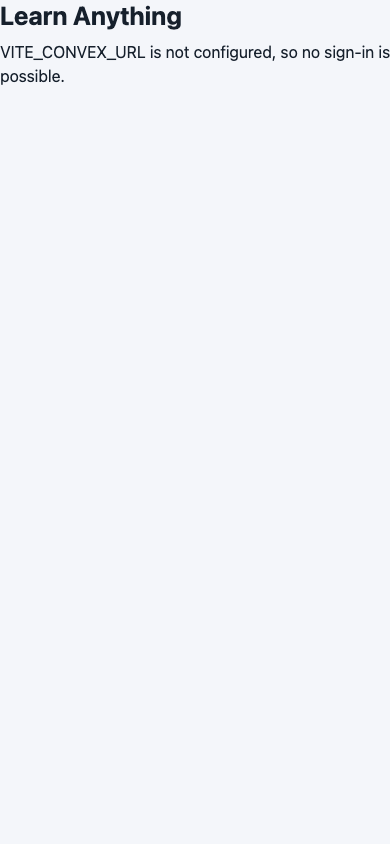
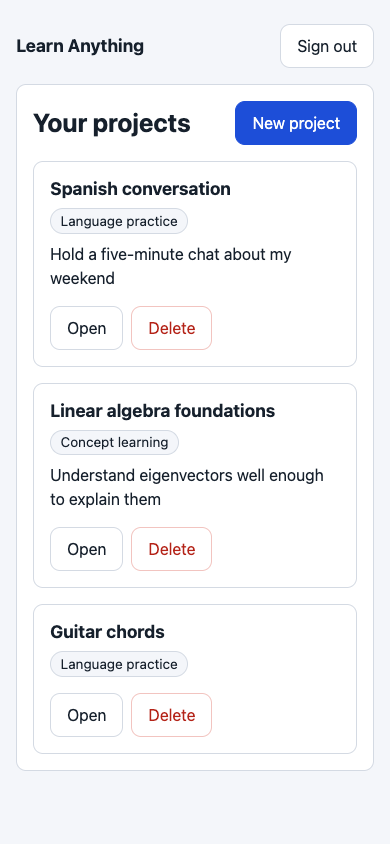
docs: fix S26 evidence after review - real dashboard screenshots, #38 row, row-to-test mapping
Regenerates journey-dashboard-{desktop,mobile}.png through
#/preview/dashboard with VITE_CONVEX_URL set (the old capture showed the
unconfigured-VITE_CONVEX_URL page), documents what each artifact actually
shows, records #38's merged offline portion with the verified preview
header evidence, and explains the 56 rows -> 35 tests mapping.

diff --git a/docs/evidence/s26/README.md b/docs/evidence/s26/README.md
@@ -1,6 +1,6 @@
 # S26 — v0.1 end-to-end release acceptance report
 
-**Story:** S26 / issue #30 · **Branch:** `feat/issue-30-release-acceptance` · **Base:** `origin/main` at `a85d65b` (S05…S25 plus #41 auth hardening merged) · **Date:** 2026-10-03
+**Story:** S26 / issue #30 · **Branch:** `feat/issue-30-release-acceptance` · **Base:** `origin/main` at `33b6fbc` (S05…S25, #41 auth hardening and #72 offline Vercel hosting merged) · **Date:** 2026-10-03
 
 This report is the S26 acceptance evidence: the full learner journey, both tutor
 modes, the two-user privacy matrix, failure recovery without duplicate rows,
@@ -22,10 +22,10 @@ no production code changes.**
 | --- | --- | --- |
 | S05, S17, S19, S20, S21, S22, S23, S24, S25 (BACKLOG) | ✅ closed, merged | PRs #37, #66, #53, #55, #45, #52, #44, #69, #70 |
 | #41 — Convex Auth hardening (PM-added) | ✅ **SATISFIED** — PR #71 merged, `main` = `a85d65b`; this branch merged it before the runs below | Negative-token tests across 13 `ctx.auth` functions + 5 HTTP routes (`packages/api/tests/auth-negative-tokens.test.ts`), 8-entry callback/redirect allowlist with foreign-origin rejection (`packages/api/tests/auth-callback.test.ts`), agent handshake binding guard with no email-only/user-ID-only binding (`packages/agent/tests/sessionEndpoint.test.ts`), ADR evidence table (`docs/adr/0004-authentication-method.md`) — all green in the `pnpm test` output below |
-| #38 — Vercel deploy (PM-added) | ⛔ **partially blocked** — offline config/docs in flight (separate worktree); secrets workflow + production deploy + live sign-in smoke require **owner authority** (`Missing environment variable JWT_PRIVATE_KEY` in production QA) | Recorded as a remaining gate, not passed |
+| #38 — Vercel deploy (PM-added) | ✅ **offline portion MERGED** (PR #72, `main` = `33b6fbc`) with **VERIFIED** preview evidence | Preview deployment `dpl_27dT47KjRD5UWS7E2Ft4z7GDDH4g` is READY and serves all six headers — CSP, `Permissions-Policy: microphone=(self)`, `X-Content-Type-Options: nosniff`, `Referrer-Policy`, `X-Frame-Options: DENY`, HSTS `max-age=31536000` — as fetched through the owner's Vercel connection. Issue #38 **REMAINS OPEN** on owner-authority gates: JWT_PRIVATE_KEY/JWKS secrets workflow, production promotion, live sign-in + no-secret-in-bundle smoke |
 | #67, #68 (auth error copy, sign-in/onboarding screen) | ℹ out of S26 scope, listed as follow-ups (order-40/41, milestone v0.2) | issue tracker |
 
-## Commands and outputs (this branch, post-#41 merge)
+## Commands and outputs (this branch, refreshed from `main` at `33b6fbc`)
 
 ```text
 $ pnpm lint
@@ -103,10 +103,16 @@ provider counts `transcriptions=2, speech=2, chat=3` — no duplicates.
 
 Test: `packages/app/tests/e2e-privacy-matrix.test.tsx` — **35/35 PASS**.
 One shared deployment seeds A's world once (project + ingested document +
-completed grounded turn + agent connection token). Every row below is an
-individual named test; **actual = expected on every row**. "Denied" means the
-typed non-enumerating error (`NOT_FOUND`/`UNAUTHENTICATED`/`404`) with zero
-provider calls and zero rows written unless stated.
+completed grounded turn + agent connection token). The **56 rows below map to
+35 named tests**: C1–C28 are one `test.each` test each (28 tests), while the
+other 28 rows are grouped assertions inside 7 named tests — U1–U4 (`UI
+surface…`), V1–V4 (`vector surface…`), H1–H3 (`file surface…`), S1–S4
+(`speech-HTTP surface…`), A1–A5 (`agent surface…`), T1–T5 (`cache/telemetry
+surface…`) and AD1–AD3 (`audio surface…`). **actual = expected on every row.**
+"Denied" means the typed non-enumerating error
+(`NOT_FOUND`/`UNAUTHENTICATED`/`404`) with zero provider calls — asserted on
+every Convex row — and no `tutorTurns`/`messages`/`citations` row written,
+unless stated.
 
 ### Surface: UI
 
@@ -135,7 +141,7 @@ provider calls and zero rows written unless stated.
 | C12 | `tutor.getTurn` | NOT_FOUND | ✅ |
 | C13 | `tutor.latestTurn` | NOT_FOUND | ✅ |
 | C14 | `tutor.cancelTurn` | NOT_FOUND | ✅ |
-| C15 | `tutor.runTurn` (action) | NOT_FOUND, 0 provider calls, 0 rows | ✅ |
+| C15 | `tutor.runTurn` (action) | NOT_FOUND, 0 provider calls, 0 rows | ✅ asserted: provider counts and `tutorTurns`/`messages`/`citations` unchanged (holds for every C row) |
 | C16 | `ingestion.listIngestionJobs` | NOT_FOUND | ✅ |
 | C17 | `agentSessions.issueConnectionToken` | NOT_FOUND | ✅ |
 | C18 | `agentSessions.revokeConnectionToken` (A's token id) | NOT_FOUND | ✅ |
@@ -199,7 +205,7 @@ one's instance at the gate" → 403 `AGENT_SCOPE_MISMATCH`,
 | T1 | B's denied STT + transcript attempts | 0 telemetry rows for `learner-b` | ✅ 0 rows |
 | T2 | rows keyed to A's project | all `ownerId: learner-a` | ✅ |
 | T3 | redaction canary (`what is photosynthesis`, answer text) | absent from every telemetry row | ✅ |
-| T4 | rate-limit buckets | none for B, never A's bucket | ✅ |
+| T4 | rate-limit buckets | owner-scoped: no shared or foreign bucket, and A's bucket never spent by B | ✅ every row keyed to `learner-a`/`learner-b` and carries no `projectId`; A's rows byte-identical before/after B's denials (B's own denials are charged only to B's bucket) |
 | T5 | public read surface for telemetry | none (source scan: module exports no public `query`/`mutation`/`action`) | ✅ |
 
 Cross-user rate-limit bucket isolation and the "denied even with a fresh
@@ -259,22 +265,35 @@ preview fixtures (synthetic data only; `vite build` strips them).
 
 | File | Viewport | What was inspected |
 | --- | --- | --- |
-| `journey-dashboard-desktop.png` / `-mobile.png` | 1280×1000 / 390×844 | dashboard with projects, modes badges, no overflow at 390 px |
-| `journey-documents-desktop.png` / `-mobile.png` | 1280×1000 / 390×844 | upload form + per-job badges (`Ready · 6 sections`, `Processing… (attempt 1 of 5)`, encrypted/failed states) |
+| `journey-dashboard-desktop.png` / `-mobile.png` | 1280×1000 / 390×844 | dashboard ("Your projects") with three project cards and their mode badges — `Language practice`, `Concept learning`, `Language practice` — no overflow at 390 px |
+| `journey-documents-desktop.png` / `-mobile.png` | 1280×1000 / 390×844 | upload form + the per-job badges actually in frame: `Ready · 6 sections`, `Processing… (attempt 1 of 5)` and (desktop) `Retrying… (attempt 2 of 5)` with the typed copy "We couldn't read this file. Retry, or delete it and upload a fixed copy."; the next card (`unit-7-scan.pdf`) starts at the viewport fold with its badge cut off, so the `Unsupported file · ENCRYPTED_PDF` label (the fixture's "encrypted" state) is **not** readable in either capture |
 | `journey-transcripts-citations-desktop.png` / `-mobile.png` | 1280×1000 / 390×844 (full page) | **learner transcript, tutor answer with `[1]`/`[2]` and citation links `1. Page 2`, `2. Practice routine`**, all five stages, Ready reached |
 | `journey-failure-recovery-desktop.png` / `-mobile.png` | 1280×1000 / 390×844 (full page) | failed stage (`Retrieving & generating — failed`), typed alert "The tutor timed out. Retry (starts a new turn) — no duplicate answer can be created.", Retry / Discard response, editable transcription |
 | `journey-citation-source-desktop.png` / `-mobile.png` | 1280×1000 / 390×844 | citation source viewer with cited chunk |
 
-Reproduce:
+Reproduce (the dev server must start with `VITE_CONVEX_URL` set — any value
+works — otherwise `main.tsx` renders its "VITE_CONVEX_URL is not configured"
+page for every non-preview route; the dashboard is captured through
+`#/preview/dashboard`, which mounts the fixture backend and lands on
+`#/projects` with projects and mode badges):
 
 ```sh
-pnpm --filter @learn-anything/app exec vite --port 5216 --strictPort &
+VITE_CONVEX_URL="https://example.invalid" \
+  pnpm --filter @learn-anything/app exec vite --port 5216 --strictPort &
 npx playwright screenshot --channel=chrome --viewport-size="1280,1000" --full-page \
   --wait-for-timeout=2500 "http://localhost:5216/#/preview/conversation-ready" \
   journey-transcripts-citations-desktop.png
-# 390,844 and the other routes: #/projects, #/preview/documents,
-# /preview/conversation-error, #/preview/source
+npx playwright screenshot --channel=chrome --viewport-size="1280,1000" \
+  --wait-for-timeout=3000 "http://localhost:5216/#/preview/dashboard" \
+  journey-dashboard-desktop.png
+# 390,844 and the other routes: #/preview/dashboard, #/preview/documents,
+# /preview/conversation-error, /preview/source
 ```
+
+The dashboard pair was regenerated on 2026-10-03 after review found the first
+capture showed the unconfigured-`VITE_CONVEX_URL` page instead of the
+dashboard; both images were reopened and inspected and show the "Your
+projects" dashboard described above.
 
 ### Microphone / playback probe (real browser)
 
